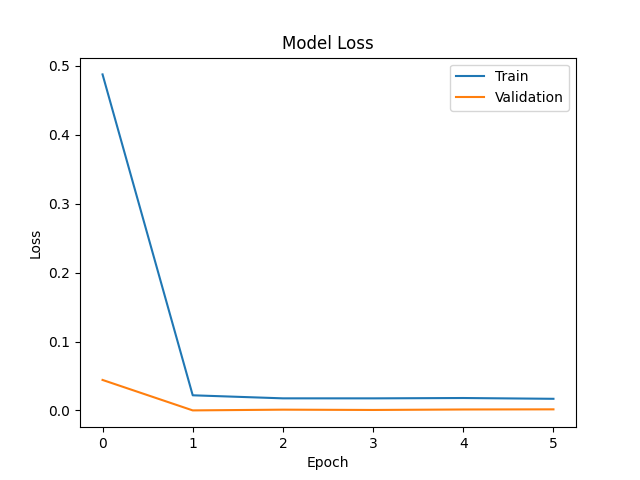
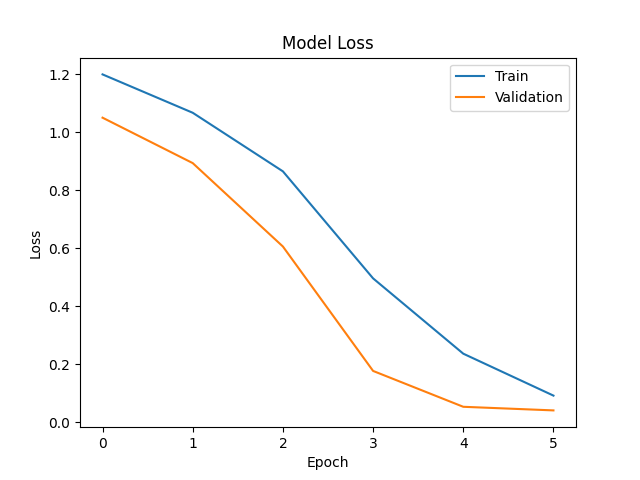
LSTM Autoencoder is coming

diff --git a/LSTM_Autoencoder.py b/LSTM_Autoencoder.py
@@ -1,0 +1,98 @@
+from tensorflow.keras.models import load_model
+import pandas as pd
+import numpy as np
+from sklearn.metrics import r2_score, mean_squared_error
+from tensorflow.keras.models import load_model
+from tensorflow.keras.models import Sequential
+from tensorflow.keras.layers import LSTM
+from keras.layers import Dense, Dropout
+
+import matplotlib.pyplot as plt
+
+import math
+
+
+def history_visualization(history):
+    plt.plot(history.history['loss'])
+    plt.plot(history.history['val_loss'])
+    plt.title('Model Loss')
+    plt.xlabel('Epoch')
+    plt.ylabel('Loss')
+    plt.legend(['Train', 'Validation'], loc='upper right')
+    # plt.savefig('png/LSTM/model_loss_for_lstm.png')
+    plt.show()
+
+
+
+def building_autoencoder_model(x_train):
+    # Building model
+    x_train = np.reshape(x_train, (x_train.shape[0], x_train.shape[1], 1))
+
+    model = Sequential()
+    model.add(LSTM(128, activation='relu', input_shape=(x_train.shape[1], x_train.shape[2]), return_sequences=True))
+    model.add(LSTM(64, activation='relu', return_sequences=False))
+    model.add(Dropout(0.2))
+    model.add(Dense(x_train.shape[1]))
+
+    model.compile(optimizer='adam', loss='mse')
+    history = model.fit(x_train, x_train, epochs=6, batch_size=64, validation_split=0.1, verbose=1)
+
+    history_visualization(history)
+
+    # save model
+    model.save(f'lstm_autoencoder_model.h5')
+
+    print("model fitted and saved")
+    return model, history
+
+
+def df_to_X_for_lstm(df_train, df_test):
+    # Prepare train datasets
+    window_size = 6
+    x_train = []
+    n_future = 0  # Number of days we want to look into the future based on the past days.
+
+    for i in range(window_size, len(df_train) - n_future + 1):
+        x_train.append(df_train.iloc[i - window_size:i])
+
+    # Prepare test datasets
+    x_test = []
+    for i in range(window_size, len(df_test) - n_future + 1):
+        x_test.append(df_test.iloc[i - window_size:i])
+
+    return np.array(x_train).astype('float32'), np.array(x_test).astype('float32')
+
+
+def main():
+    df_train = pd.read_csv('df_train.csv')
+    df_test = pd.read_csv('df_test.csv')
+
+    df_train = df_train["Açılış"]
+    df_test = df_test["Açılış"]
+
+    x_train, x_test = df_to_X_for_lstm(df_train, df_test)
+
+    # model, history = building_autoencoder_model(x_train)
+
+    model = load_model('lstm_autoencoder_model.h5')
+
+    x_test = np.reshape(x_test, (x_test.shape[0], x_test.shape[1], 1))
+
+    testPredict = model.predict(x_test)
+
+    testPredict = np.reshape(testPredict, (testPredict.shape[0], testPredict.shape[1], 1))
+
+    testPredict = np.mean(testPredict, axis=1)
+    df_test = df_test[0:x_test.shape[0]]
+
+    plt.plot(testPredict, label='Predict')
+    plt.legend()
+    plt.plot(df_test, label='Actual')
+    plt.legend()
+    plt.title('Predict vs Actual')
+    # plt.savefig('png/LSTM/predictVSactual_for_lstm.png')
+    plt.show()
+
+
+
+main()

diff --git a/LSTM.py b/LSTM.py
@@ -99,6 +99,7 @@ def building_lstm_model(x_train, y_train):
 
     print("model fitted and saved")
     return model,history
+
 def main():
 
     df_train=pd.read_csv('df_train.csv')
@@ -112,7 +113,7 @@ def main():
     # LSTM for just forecasting, not for anomaly detection
     x_train, x_test, y_train, y_test = df_to_X_and_y_for_lstm(df_train, df_test)
     # model , history = building_lstm_model(x_train, y_train)
-    model , history = building_lstm_model(x_train, y_train)
+    #model , history = building_lstm_model(x_train, y_train)
 
     model = load_model('lstm_model.h5')
     # Predict and visualize model performance

diff --git a/main.py b/main.py
@@ -46,6 +46,9 @@ def LSTM():
     subprocess.run(["python", "LSTM.py"])
 def Prophet():
     subprocess.run(["python", "Prophet.py"])
+def LSTM_Autoencoder():
+    subprocess.run(["python", "LSTM_Autoencoder.py"])
+
 
 def main():
     # data load from csv
@@ -62,6 +65,7 @@ def main():
 
     #LSTM()
     #Prophet()
+    #LSTM_Autoencoder()
 
 
 main()
